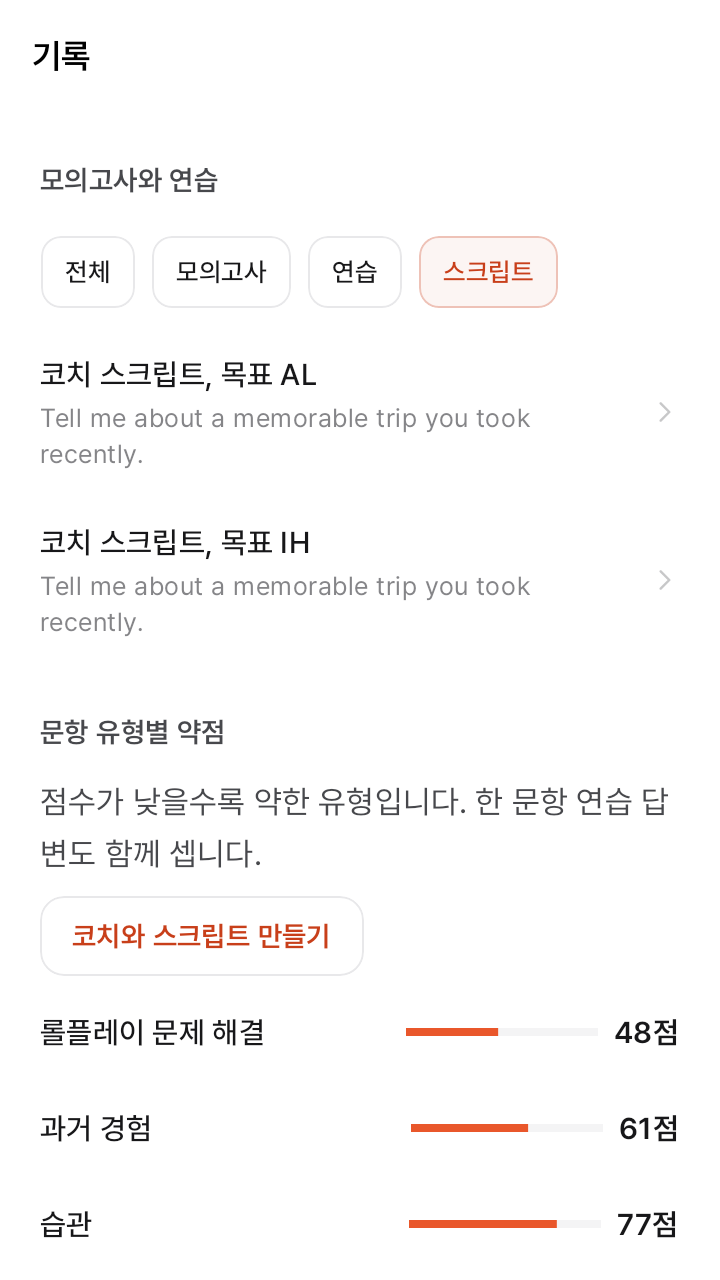
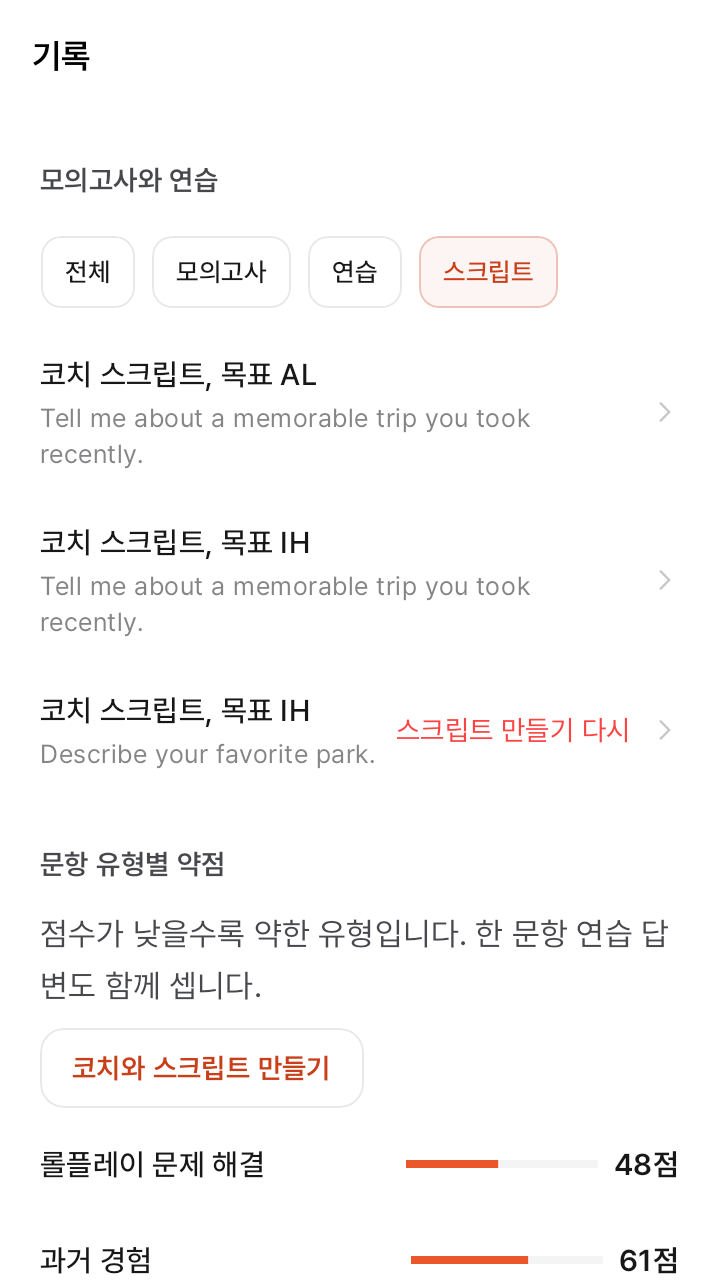
[coach-script] 스크립트를 만들지 못한 끝난 세션을 기록 탭에서 다시 만들게 했다 (#267)

diff --git a/engine/coach/src/commonTest/kotlin/io/github/nosorae/aiopic/engine/coach/CoachScriptStoreTest.kt b/engine/coach/src/commonTest/kotlin/io/github/nosorae/aiopic/engine/coach/CoachScriptStoreTest.kt
@@ -11,18 +11,19 @@ class CoachScriptStoreTest {
     private fun script(sessionId: String) = CoachScript(sessionId, ScriptParts("i", "b", "c"), emptyList(), edited = null, editedAt = null, promptVersion = "v1", model = "m")
 
     @Test
-    fun `F14_6 스크립트가 있는 세션만 최근 것부터 내고 같은 질문의 스크립트도 따로 낸다`() = runTest {
+    fun `F14_6 끝난 세션을 최근 것부터 스크립트가 있는지와 함께 내고 같은 질문의 세션도 따로 낸다`() = runTest {
         val db = inMemoryDatabase(StandardTestDispatcher(testScheduler))
         val store = CoachStore(db)
-        store.save(CoachState("old", "q1", "IH", Instant.fromEpochSeconds(1)))
-        store.save(CoachState("new", "q1", "AL", Instant.fromEpochSeconds(3)))
+        store.save(CoachState("old", "q1", "IH", Instant.fromEpochSeconds(1), phase = CoachPhase.Script, status = CoachStatus.Finished))
+        store.save(CoachState("new", "q1", "AL", Instant.fromEpochSeconds(4), phase = CoachPhase.Script, status = CoachStatus.Finished))
+        store.save(CoachState("failed", "q2", "IH", Instant.fromEpochSeconds(3), phase = CoachPhase.Script, status = CoachStatus.Finished))
         store.save(CoachState("talking", "q2", "IH", Instant.fromEpochSeconds(2)))
         store.save(script("old"))
         store.save(script("new"))
 
         val sessions = store.scriptSessions().first()
 
-        assertEquals(listOf("new" to "AL", "old" to "IH"), sessions.map { it.id to it.targetGrade })
+        assertEquals(listOf(Triple("new", "AL", true), Triple("failed", "IH", false), Triple("old", "IH", true)), sessions.map { (session, written) -> Triple(session.id, session.targetGrade, written) })
         db.close()
     }
 }

diff --git a/engine/coach/src/commonMain/kotlin/io/github/nosorae/aiopic/engine/coach/CoachStore.kt b/engine/coach/src/commonMain/kotlin/io/github/nosorae/aiopic/engine/coach/CoachStore.kt
@@ -4,6 +4,7 @@ import io.github.nosorae.aiopic.engine.answer.store.CoachScriptRow
 import io.github.nosorae.aiopic.engine.answer.store.CoachSessionRow
 import io.github.nosorae.aiopic.engine.answer.store.OpicDatabase
 import kotlinx.coroutines.flow.Flow
+import kotlinx.coroutines.flow.combine
 import kotlinx.coroutines.flow.map
 import kotlinx.serialization.json.Json
 import kotlin.time.Duration.Companion.milliseconds
@@ -70,8 +71,14 @@ class CoachStore(db: OpicDatabase) {
         ),
     )
 
-    /** 스크립트가 있는 세션, 최근 것부터(F14.6). 질문, 목표 등급, 시작 시각만 채우고 받아쓰기와 메모는 비어 있다. */
-    fun scriptSessions(): Flow<List<CoachState>> = dao.scriptedSessions().map { rows -> rows.map { it.start() } }
+    /**
+     * 끝난 세션과 스크립트가 있는 세션, 최근 것부터(F14.6). 둘째 값은 스크립트를 만들었는지다. 만들지 못한 세션도 내서 기록 탭에서 다시 만들 수 있게 한다.
+     * 세션은 질문, 목표 등급, 시작 시각만 채우고 받아쓰기와 메모는 비어 있다.
+     */
+    fun scriptSessions(): Flow<List<Pair<CoachState, Boolean>>> = combine(dao.scriptSessions(), dao.scriptIds()) { rows, ids ->
+        val written = ids.toSet()
+        rows.map { it.start() to (it.id in written) }
+    }
 
     private fun CoachSessionRow.start() = CoachState(id, questionId, targetGrade, Instant.fromEpochMilliseconds(startedAt))
 

diff --git a/apps/opic/shared/src/commonMain/kotlin/io/github/nosorae/aiopic/apps/opic/shared/AppGraph.kt b/apps/opic/shared/src/commonMain/kotlin/io/github/nosorae/aiopic/apps/opic/shared/AppGraph.kt
@@ -600,8 +600,8 @@ private object NoTwoStepPath : Transcriber, TranscriptAnalyzer {
     override suspend fun analyze(model: ModelInfo, prompt: Prompt, question: Question, transcript: Transcript): AnalysisResult<TextAnalysis> = AnalysisResult.Failed(AnalysisError.Rejected)
 }
 
-/** 기록 탭의 스크립트 줄(F14.6). 세션에는 질문 id 만 있어 연습 풀에서 질문 글을 찾는다. 풀에서 빠진 질문은 글이 비어 목표 등급만 보인다. */
+/** 기록 탭의 스크립트 줄(F14.6). 만들지 못한 끝난 세션도 다시 만들기 줄로 낸다. 세션에는 질문 id 만 있어 연습 풀에서 질문 글을 찾는다. 풀에서 빠진 질문은 글이 비어 목표 등급만 보인다. */
 private fun scriptRows(coach: CoachStore, settings: AppSettings): Flow<List<HistoryScript>> = coach.scriptSessions().map { sessions ->
     val texts = if (sessions.isEmpty()) emptyMap() else practicePool(settings).associate { it.id to it.text }
-    sessions.map { HistoryScript(it.id, it.questionId, texts[it.questionId].orEmpty(), it.targetGrade) }
+    sessions.map { (session, written) -> HistoryScript(session.id, session.questionId, texts[session.questionId].orEmpty(), session.targetGrade, written) }
 }

diff --git a/ui/feature-history/src/commonMain/kotlin/io/github/nosorae/aiopic/ui/featurehistory/ObserveHistoryUseCase.kt b/ui/feature-history/src/commonMain/kotlin/io/github/nosorae/aiopic/ui/featurehistory/ObserveHistoryUseCase.kt
@@ -39,8 +39,11 @@ data class HistorySession(
  */
 data class HistoryPractice(val answerId: String, val typeName: String, val model: String?, val analysis: AnswerAnalysis, val job: JobState? = null) : HistoryEntry
 
-/** 코치 세션의 스크립트 한 줄(F14.6). [question] 은 질문 글, [targetGrade] 는 그 세션의 목표 등급이다. */
-data class HistoryScript(val sessionId: String, val questionId: String, val question: String, val targetGrade: String) : HistoryEntry
+/**
+ * 코치 세션의 스크립트 한 줄(F14.6). [question] 은 질문 글, [targetGrade] 는 그 세션의 목표 등급이다.
+ * [written] 이 false 면 세션은 끝났는데 스크립트를 만들지 못했다. 누르면 스크립트 화면이 다시 만든다.
+ */
+data class HistoryScript(val sessionId: String, val questionId: String, val question: String, val targetGrade: String, val written: Boolean = true) : HistoryEntry
 
 /**
  * 문항 유형별 약점 한 줄. [typeName] 은 사용자에게 보일 유형 이름이다. [rose] 는 지난번에 본 점수보다 오른 것을 아직 축하하지 않았거나 지금 축하하는 중이다(#198).

diff --git a/ui/feature-history/src/androidHostTest/kotlin/io/github/nosorae/aiopic/ui/featurehistory/HistoryScreenshotTest.kt b/ui/feature-history/src/androidHostTest/kotlin/io/github/nosorae/aiopic/ui/featurehistory/HistoryScreenshotTest.kt
@@ -96,9 +96,21 @@ class HistoryScreenshotTest {
 
         rule.onAllNodesWithTag("history-session").assertCountEquals(0)
         rule.onAllNodesWithTag("history-practice").assertCountEquals(0)
-        rule.onAllNodesWithTag("history-script").assertCountEquals(2)
+        rule.onAllNodesWithTag("history-script").assertCountEquals(3)
         rule.onAllNodesWithTag("history-script")[0].performClick()
         assertEquals(HistorySamples.withScripts.entries.first(), opened)
+    }
+
+    @Test
+    fun `F14_6 스크립트를 만들지 못한 세션은 다시 만들기 줄로 보이고 누르면 그 세션을 연다`() {
+        var opened: HistoryScript? = null
+        show(HistorySamples.withScripts, onOpenScript = { opened = it })
+        rule.onNodeWithTag("history-filter-script").performClick()
+        rule.mainClock.advanceTimeBy(SETTLE_MILLIS)
+
+        rule.onNodeWithText("스크립트 만들기 다시").performClick()
+
+        assertEquals("c0", opened?.sessionId)
     }
 
     @Test

diff --git a/engine/answer/src/commonMain/kotlin/io/github/nosorae/aiopic/engine/answer/store/OpicDatabase.kt b/engine/answer/src/commonMain/kotlin/io/github/nosorae/aiopic/engine/answer/store/OpicDatabase.kt
@@ -171,9 +171,12 @@ interface CoachDao {
     @Query("SELECT * FROM coach_script WHERE sessionId = :sessionId")
     fun script(sessionId: String): Flow<CoachScriptRow?>
 
-    /** 스크립트가 있는 세션, 최근 것부터(#267). */
-    @Query("SELECT * FROM coach_session WHERE id IN (SELECT sessionId FROM coach_script) ORDER BY startedAt DESC")
-    fun scriptedSessions(): Flow<List<CoachSessionRow>>
+    /** 끝난 세션과 스크립트가 있는 세션, 최근 것부터(#267). 스크립트를 만들지 못한 끝난 세션도 다시 만들 수 있게 낸다. */
+    @Query("SELECT * FROM coach_session WHERE status = 'Finished' OR phase = 'Script' OR id IN (SELECT sessionId FROM coach_script) ORDER BY startedAt DESC")
+    fun scriptSessions(): Flow<List<CoachSessionRow>>
+
+    @Query("SELECT sessionId FROM coach_script")
+    fun scriptIds(): Flow<List<String>>
 }
 
 @Dao

diff --git a/ui/feature-history/src/commonMain/kotlin/io/github/nosorae/aiopic/ui/featurehistory/HistorySamples.kt b/ui/feature-history/src/commonMain/kotlin/io/github/nosorae/aiopic/ui/featurehistory/HistorySamples.kt
@@ -55,11 +55,12 @@ internal object HistorySamples {
 
     val empty = HistoryUiState(loading = false)
 
-    /** 같은 질문으로 만든 스크립트 둘이 맨 위에 있다(F14.6). */
+    /** 같은 질문으로 만든 스크립트 둘과 만들지 못한 세션 하나가 맨 위에 있다(F14.6). */
     val withScripts = filled.copy(
         entries = listOf(
             HistoryScript("c2", "q1", "Tell me about a memorable trip you took recently.", "AL"),
             HistoryScript("c1", "q1", "Tell me about a memorable trip you took recently.", "IH"),
+            HistoryScript("c0", "q2", "Describe your favorite park.", "IH", written = false),
         ) + filled.entries,
     )
 

diff --git a/ui/feature-history/src/commonMain/kotlin/io/github/nosorae/aiopic/ui/featurehistory/HistoryScreen.kt b/ui/feature-history/src/commonMain/kotlin/io/github/nosorae/aiopic/ui/featurehistory/HistoryScreen.kt
@@ -127,7 +127,10 @@ fun HistoryScreen(
                             chevron = true,
                             onClick = { onOpenScript(entry) },
                             modifier = montageItemMotion().testTag("history-script"),
-                        )
+                        ) {
+                            // 30분 대화를 잃지 않게 만들지 못한 스크립트도 줄로 남기고 누르면 다시 만든다.
+                            if (!entry.written) Status(stringResource(Res.string.history_script_retry), failed = true)
+                        }
                     }
                 }
                 if (state.weaknesses.isNotEmpty()) {

diff --git a/docs/adr/0037-스크립트는-화면에-들어갈-때-만들고-실패는-분석-이유-값으로-돌려준다.md b/docs/adr/0037-스크립트는-화면에-들어갈-때-만들고-실패는-분석-이유-값으로-돌려준다.md
@@ -30,7 +30,7 @@
 
 ## 결과
 
-만드는 중에 앱을 끄면 요청이 버려지고, 다음에 스크립트 화면(기록 탭의 스크립트 줄이나 같은 세션)을 열 때 다시 만든다. 그때까지 기록 탭에는 그 세션의 스크립트 줄이 없다. 끝난 세션의 스크립트를 만들지 못한 채 화면을 떠나면 다시 열 길이 없으므로, 이게 문제가 되면 기록 탭에 "스크립트를 만들지 못한 세션" 줄을 더하거나 후보 2로 옮긴다.
+만드는 중에 앱을 끄거나 실패한 채 화면을 떠나도 세션은 끝난 상태로 남는다. 기록 탭의 "스크립트" 거르기가 스크립트 없는 끝난 세션을 "스크립트 만들기 다시" 줄로 보이고, 누르면 스크립트 화면이 같은 받아쓰기로 다시 만든다. 그래서 30분 대화의 결과를 잃지 않는다. 사용자가 스크립트 화면을 열기 전에는 요청을 보내지 않으므로 앱이 뒤에서 만들어 두지는 않는다. 이게 문제가 되면 후보 2로 옮긴다.
 
 ## 근거
 
